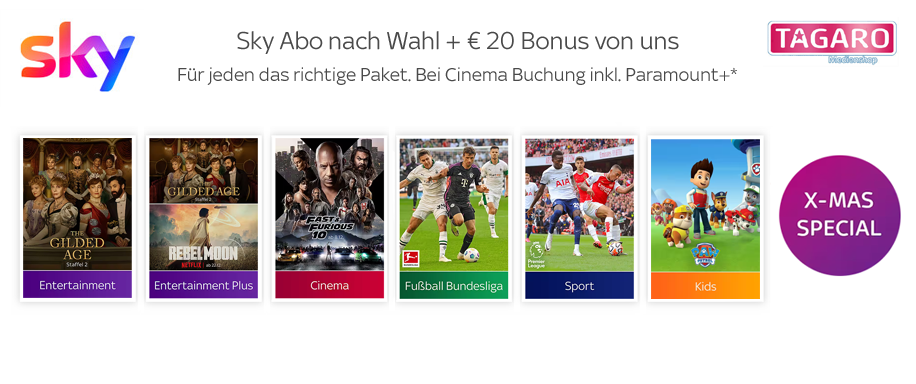
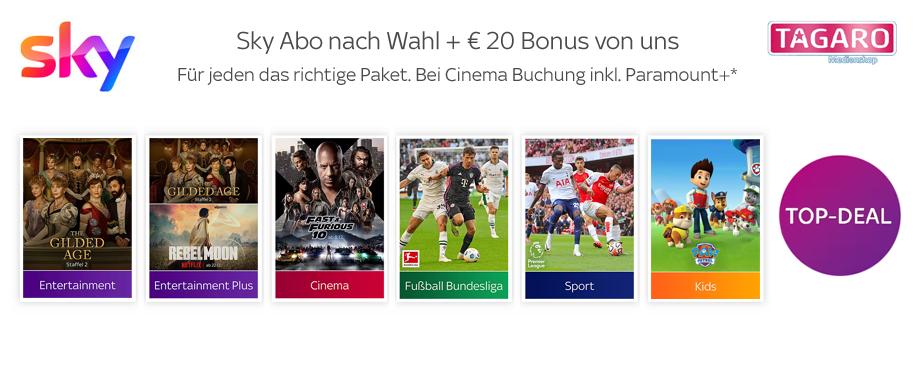
initial top-deal update

Changed region(s): [[0.8559, 0.5, 0.9782, 0.625]]

diff --git a/apps/web/src/routes/black_friday_showcase.svelte b/apps/web/src/routes/black_friday_showcase.svelte
@@ -19,7 +19,7 @@
 	</a>
 
 	<div class="flex items-center justify-center pb-8 gap-12">
-		<img src="/images/badges/xmas.png" alt="" class="w-40 h-40 xmas_image" />
+		<img src="/images/badges/top-deal.png" alt="" class="w-40 h-40 xmas_image" />
 		<ul class="leading-7 text-[18px]">
 			<li>✓ Alles von Sky inkl. Paramount+ und Netflix für € 40 mtl. statt € 64 mtl.</li>
 			<li>✓ Inklusive Sky Go Plus mit 3 parallelen Streams</li>

diff --git a/packages/components/complete/black_friday_vertragsinfomationen.svelte b/packages/components/complete/black_friday_vertragsinfomationen.svelte
@@ -7,7 +7,7 @@
 <div class="vertragsinfomationen_outer">
 	<div>
 		<div class="wählbare_pakete">
-			<h3 class={title_classes}>X-Mas Special Vertragsinfomationen:</h3>
+			<h3 class={title_classes}>Top-Deal Komplett Vertragsinformationen:</h3>
 			<p>
 				Angebot gilt mit einer Mindestvertragslaufzeit von 12 Monaten (Monat der Freischaltung
 				(anteilig) zzgl. 12 Monaten) bei Buchung von Sky Entertainment Plus, Sky Cinema, Sky

diff --git a/packages/components/complete/vertragsinfomationen_box.svelte b/packages/components/complete/vertragsinfomationen_box.svelte
@@ -10,11 +10,11 @@
 	<Tabs tabs={[
 		{
 			component: BlackFridayVertragsinfomationen,
-			name: 'X-Mas Special (Komplett)'
+			name: 'Sky Top-Deal für Komplett'
 		},
 		{
 			component: Vertragsinfomationen,
-			name: 'X-Mas Angebote mit weniger Paketen'
+			name: 'Top-Deal Angebote mit weniger Paketen'
 		}
 	]} bind:active={$tabindex}/>
 </ExpandableBox>

diff --git a/apps/ebay/src/routes/packages-[packages]/+page.svelte b/apps/ebay/src/routes/packages-[packages]/+page.svelte
@@ -88,7 +88,7 @@
 				<h1 class="title font-bold text-3xl">{@html get_title(packages)}</h1>
 				<ul class="text-red-600 text-xl">
 					<li>
-						✓ Mit dem X-Mas Special jetzt bis zu € 348 im ersten Jahr sparen!
+						✓ Mit dem Top-Deal Angebot jetzt bis zu € 348 im ersten Jahr sparen!
 					</li>
 				</ul>
 				<p class="max-w-6xl mt-2">

diff --git a/apps/web/src/routes/+page.svelte b/apps/web/src/routes/+page.svelte
@@ -20,11 +20,11 @@
 	<Tabs
 		tabs={[
 			{
-				name: 'X-Mas Special (Komplett)',
+				name: 'Sky Top-Deal für Komplett',
 				component: undefined
 			},
 			{
-				name: 'X-Mas Angebote mit weniger Paketen',
+				name: 'Top-Deal Angebote mit weniger Paketen',
 				component: AngeboteRotator
 			}
 		]}

diff --git a/apps/web/src/routes/showcase_template.svelte b/apps/web/src/routes/showcase_template.svelte
@@ -35,7 +35,7 @@
 		}
 	];
 
-	const left_badges = ['/images/badges/xmas.png'] as const;
+	const left_badges = ['/images/badges/top-deal.png'] as const;
 	const showcase_assets = [
 		'entertainmentplus',
 		'cinema',
